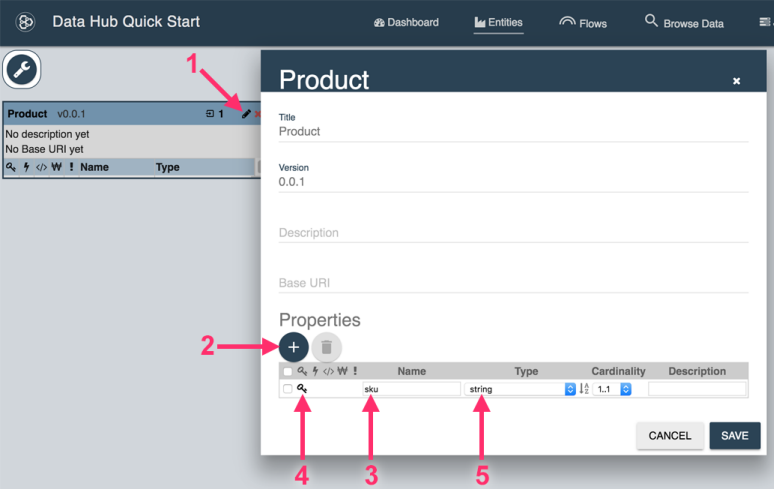
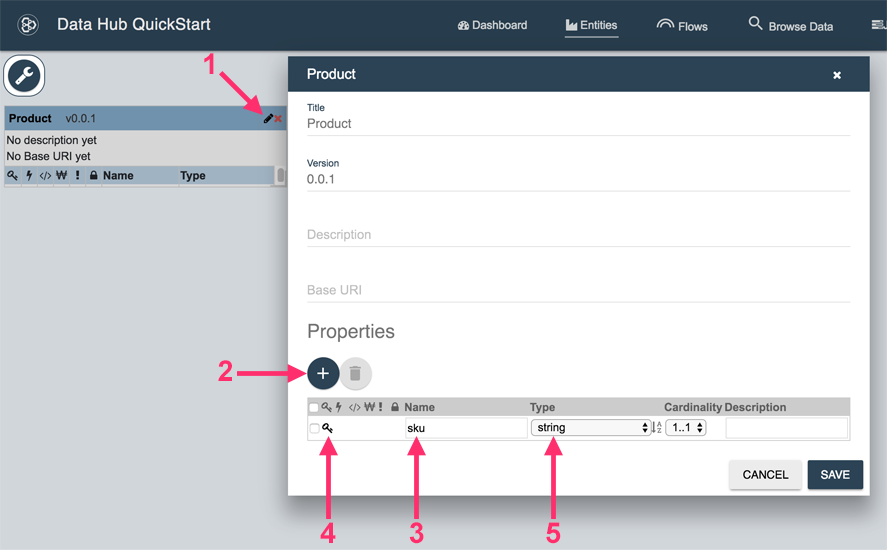
PR 1060 updates to QuickStart tutorial docs (#2)
* PR 1060 updates to QuickStart tutorial docs

* Make data-hub path consistent on tutorial install page

* Update QuickStart tutorial screenshots

* More updates to QuickStart tutorial screenshots

* Update Java prereq instructions

Change “JRE” to “JDK”.

* More updates to QuickStart tutorial screenshots

Insert screenshots where more detail is needed.
Add thin gray borders via CSS class to screens with edge whitespace.

* Update info about Jobs database in tutorial

* Update screenshots of QuickStart tutorial

Include PII elements in edit view.

diff --git a/_assets/css/bundle.scss b/_assets/css/bundle.scss
@@ -524,3 +524,7 @@ h2 {
 .screenshot {
   margin-top: 10px;
 }
+
+.screenshot-border {
+  border: solid 1px #CCC;
+}

diff --git a/_pages/tutorial/3x/load-products-as-is.md b/_pages/tutorial/3x/load-products-as-is.md
@@ -21,16 +21,21 @@ Use the following steps to configure the "Load Products" input flow, and then lo
 
 1. Click **Load Products** under **Input Flows**. The Run Input Flow wizard appears.
 1. Under **Input Files**, use the file browser to select the **input/products** directory.
+
+    ![Input Files]({{site.baseurl}}/images/3x/load-products-as-is/input-files.png){:.screenshot-border}
+
 1. Under **General Options**, change **Input File Type** to **Delimited Text**.
+
+    ![General Options]({{site.baseurl}}/images/3x/load-products-as-is/general-options.png)
+    
 1. Under **Delimited Text Options**, slide the **Generate URI?** slider to the right so MarkLogic will generate a unique URI for each document you load. 
+    
+    ![Delimited Text Options]({{site.baseurl}}/images/3x/load-products-as-is/delimited-text-options.png)
+
 1. Scroll to the bottom of the wizard and click **SAVE OPTIONS**.
 1. Click **RUN IMPORT**. MarkLogic begins loading data. QuickStart displays a progress bar at the bottom of your browser.
 
 When the load finishes, QuickStart displays a completion notification at the bottom of your browser.
-
-The following graphic summarizes the procedure for configuring and running the Load Products input flow:
-
-![Configure Load Products]({{site.baseurl}}/images/3x/load-products-as-is/configure-load-products.png)
 
 ## Review Your Finished Job
 
@@ -40,13 +45,13 @@ Click **Jobs** in the top navigation bar to open the job viewer:
 
 ![Click Jobs]({{site.baseurl}}/images/3x/load-products-as-is/select-jobs.png)
 
-You should see a view similar to the following, reflecting the load products job we just completed:
+You should see a view similar to the following, reflecting the Load Products job we just completed:
 
 ![Jobs View]({{site.baseurl}}/images/3x/load-products-as-is/jobs-view.png)
 
-Click **&gt;_**{:.blue-button} to inspect the output from your load products job. This output was generated by the mlcp command line tool. If the job completed successfully, you should see **OUTPUT_RECORDS_COMMITTED: 450** in the output. For example:
+Click **&gt;_** to inspect the output from your Load Products job. This output was generated by the mlcp command line tool. If the job completed successfully, you should see **OUTPUT_RECORDS_COMMITTED: 450** in the output. For example:
 
-![MLCP Output]({{site.baseurl}}/images/3x/load-products-as-is/mlcp-output.png)
+![MLCP Output]({{site.baseurl}}/images/3x/load-products-as-is/mlcp-output.png){:.screenshot-border}
 
 Click the **x** icon to close the dialog.
 
@@ -54,15 +59,15 @@ Click the **x** icon to close the dialog.
 
 Tracing is a debugging feature that logs inputs and outputs to each of the plugins that run during a flow. This feature is useful for helping you see where along the chain something may have gone wrong.
 
-To view the trace output from your load products job, click the lightning bolt icon (<i class="fa fa-bolt"></i>) on the far right of the job row. Alternatively, you can click Traces in the top navigation bar to see all traces.
+To view the trace output from your Load Products job, click the **lightning bolt** icon (<i class="fa fa-bolt"></i>) on the far right of the job row. Alternatively, you can click **Traces** in the top navigation bar to see all traces.
 
-![Click Lightning Bolt]({{site.baseurl}}/images/3x/load-products-as-is/click-lightning-bolt.png)
+![Click Lightning Bolt]({{site.baseurl}}/images/3x/load-products-as-is/click-lightning-bolt.png){:.screenshot-border}
 
 Click one of the rows in the Traces table to see the trace detail view. At the top of the detailed view, you see information about this trace, including the **identifier** whose processing generated it.
 
 You also see a flow diagram that enables you to examine the inputs and outputs for each stage of the flow. Each box in the diagram represents a plugin that handles a stage of the flow. When you click on a box, the input to and output from that plugin is displayed, along with that plugin's execution time.
 
-![Trace Detail View]({{site.baseurl}}/images/3x/load-products-as-is/trace-details.png)
+![Trace Detail View]({{site.baseurl}}/images/3x/load-products-as-is/trace-details.png){:.screenshot-border}
 
 ## Up Next
 

diff --git a/_pages/tutorial/3x/harmonizing-order-data.md b/_pages/tutorial/3x/harmonizing-order-data.md
@@ -20,8 +20,8 @@ Since we used the default option of **Create Structure from Entity Definition**,
 
 ![Create Product Harmonize Flow]({{site.baseurl}}/images/3x/harmonizing-order-data/create-order-harmonize-flow.png)
 
-1. <i class="fa fa-hand-pointer-o"></i> Click the **Harmonize Orders** flow. 
-1. <i class="fa fa-hand-pointer-o"></i> Click the **Collector** tab.
+1. Click the **Harmonize Orders** flow. 
+1. Click the **Collector** tab.
 
 ![Harmonize Flow Overview]({{site.baseurl}}/images/3x/harmonizing-order-data/go-to-order-collector.png)
 
@@ -48,10 +48,10 @@ Here is the final collector.sjs code:
 <div class="embed-git lang-js" href="//raw.githubusercontent.com/marklogic-community/marklogic-data-hub/develop/examples/online-store/plugins/entities/Order/harmonize/Harmonize Orders/collector/collector.sjs"></div>
 
 1. Make the code change.
-1. <i class="fa fa-hand-pointer-o"></i> Click **Save**{:.blue-button}.
-1. <i class="fa fa-hand-pointer-o"></i> Click the **Content** tab.
+1. Click **SAVE**.
+1. Click the **Content** tab.
 
-![Click Content Tab]({{site.baseurl}}/images/3x/harmonizing-order-data/save-order-collector.png)
+![Click Content Tab]({{site.baseurl}}/images/3x/harmonizing-order-data/save-order-collector.png){:.screenshot-border}
 
 <hr>
 
@@ -73,15 +73,15 @@ The final content plugin looks like:
 <div class="embed-git lang-js" href="//raw.githubusercontent.com/marklogic-community/marklogic-data-hub/develop/examples/online-store/plugins/entities/Order/harmonize/Harmonize Orders/content/content.sjs"></div>
 
 1. Change the code.
-1. <i class="fa fa-hand-pointer-o"></i> Click **SAVE**{:.blue-button}.
+1. Click **SAVE**.
 
 ![Edit and Save Content]({{site.baseurl}}/images/3x/harmonizing-order-data/save-order-content.png)
 
-<i class="fa fa-hand-pointer-o"></i> Now click the **Flow Info** tab.
+Now click the **Flow Info** tab.
 
 ![Click Flow Info]({{site.baseurl}}/images/3x/harmonizing-order-data/click-flow-info2.png)
 
-Let's run the flow. <i class="fa fa-hand-pointer-o"></i> Click **RUN HARMONIZE**{:.blue-button} to start the flow.
+Let's run the flow. Click **RUN HARMONIZE** to start the flow.
 
 ![Run Order Harmonize]({{site.baseurl}}/images/3x/harmonizing-order-data/run-order-harmonize.png)
 
@@ -89,24 +89,24 @@ Let's run the flow. <i class="fa fa-hand-pointer-o"></i> Click **RUN HARMONIZE**
 
 Similar to what we did after running the other flows, you might want to verify that the job finished.
 
-1. <i class="fa fa-hand-pointer-o"></i> Click **Jobs**.
-1. Make sure the job finished.
+1. Click **Jobs**.
+1. Make sure the job has a FINISHED status.
 
 ![Harmonized Products Jobs]({{site.baseurl}}/images/3x/harmonizing-order-data/harmonized-orders-jobs.png)
 
 You might also want to explore your harmonized data.
 
-1. <i class="fa fa-hand-pointer-o"></i> Click **Browse Data**.
+1. Click **Browse Data**.
 1. Change the database to **Final**.
-1. <i class="fa fa-hand-pointer-o"></i> Click the **Order** facet to filter the results.
+1. Click the **Order** facet to filter the results.
 
 You should see harmonized documents in the search results.
 
 ![Harmonized Products]({{site.baseurl}}/images/3x/harmonizing-order-data/harmonized-orders.png)
 
-<i class="fa fa-hand-pointer-o"></i> Click a result to see the raw data.
+Click a result to see the raw data.
 
-![Harmonized Product Detail]({{site.baseurl}}/images/3x/harmonizing-order-data/harmonized-order-details.png)
+![Harmonized Product Detail]({{site.baseurl}}/images/3x/harmonizing-order-data/harmonized-order-details.png){:.screenshot-border}
 
 ## Up Next
 

diff --git a/_pages/tutorial/3x/install.md b/_pages/tutorial/3x/install.md
@@ -68,33 +68,32 @@ With the QuickStart application running, open it in your browser: [http://localh
 
 After opening the QuickStart application, you must step through a sequence of screens to properly configure and install the hub.
 
-1. Browse to the directory where your hub lives. If you saved and ran the Quickstart war file in the hub directory, then you should be in the correct directory. Click NEXT.
+1. Browse to the directory where your hub lives. If you saved and ran the Quickstart war file in the hub directory, then you should be in the correct directory. Click **NEXT**.
 <br/>![Hub Directory]({{site.baseurl}}/images/3x/install/hub-wizard-1.png){:.screenshot}
 
-2. Click INITIALIZE to initialized your project directory.
+2. Click **INITIALIZE** to initialized your project directory.
 <br/>![Hub Directory]({{site.baseurl}}/images/3x/install/hub-wizard-2.png){:.screenshot}
 
-3. You have now initialized your Data Hub Framework project. Your project folder now contains many new files and directories. If you are curious, you can read about the [files in a Data Hub Framework project](https://github.com/marklogic-community/marklogic-data-hub/wiki/Project-Directory-Structure). Click NEXT.
+3. You have now initialized your Data Hub Framework project. Your project folder now contains many new files and directories. If you are curious, you can read about the [files in a Data Hub Framework project](https://github.com/marklogic-community/marklogic-data-hub/wiki/Project-Directory-Structure). Click **NEXT**.
 <br/>![Hub Directory]({{site.baseurl}}/images/3x/install/hub-wizard-3.png){:.screenshot}
 
-4. Choose the local environment, then click NEXT.
+4. Choose the local environment, then click **NEXT**.
 <br/>![Hub Directory]({{site.baseurl}}/images/3x/install/hub-wizard-4.png){:.screenshot}
 
-5. Enter your MarkLogic credentials, then click LOGIN.
+5. Enter your MarkLogic credentials, then click **LOGIN**.
 <br/>![Hub Directory]({{site.baseurl}}/images/3x/install/hub-wizard-5.png){:.screenshot}
 
-6. Click INSTALL to install the data hub into MarkLogic. You will see a screen with progress information while the data hub is being installed.
+6. Click **INSTALL** to install the data hub into MarkLogic. You will see a screen with progress information while the data hub is being installed.
 <br/>![Hub Directory]({{site.baseurl}}/images/3x/install/hub-wizard-6.png){:.screenshot}
 
 Congratulations! The Data Hub Framework is installed and ready to use.
-You are taken to the Dashboard page where you can see the document counts of all four hub databases. Additionally, you can clear out the databases one at a time or all in one fell swoop.
+You are taken to the Dashboard page where you can see the document counts of all three hub databases. Additionally, you can clear out the databases one at a time or all in one fell swoop.
 
-The following are the four databases and what they store:
+The following are the three databases and what they store:
 
 - **Staging**: incoming data
 - **Final**: harmonized data
-- **Job**: data about the jobs you run
-- **Trace**: debugging data about each document that has been harmonized
+- **Jobs**: data about the jobs run and tracing data about each harmonized document
 
 ![Hub Directory]({{site.baseurl}}/images/3x/install/hub-wizard-7.png)
 

diff --git a/_pages/tutorial/3x/harmonizing-product-data.md b/_pages/tutorial/3x/harmonizing-product-data.md
@@ -11,6 +11,8 @@ In this exercise, we will create a harmonize flow for Product, and then run it t
 
 To begin, click **Flows** in the top navigation bar.
 
+![Click Flows]({{site.baseurl}}/images/3x/harmonizing-product-data/select-flows.png)
+
 ## Create the Harmonize Flow
 
 Use the following procedure to create a Product harmonize flow:
@@ -65,7 +67,7 @@ The following options are passed into the collector plugin by default:
 - **flow**: the name of the flow this plugin belongs to
 - **flowType**: the type of flow being run (input or harmonize)
 
-The genterated code uses [cts.uris](https://docs.marklogic.com/cts.uris) to get values from the URI lexicon. We pass in [cts.collectionQuery](https://docs.marklogic.com/cts.collectionQuery) as the third parameter to constrain our results to only the URIs for documents in the **Product** collection. We are using `options.entity` as the parameter. The Data Hub Framework passes in options from Java to the plugins.
+The genterated code uses [cts.uris](https://docs.marklogic.com/cts.uris) to get values from the URI lexicon. We pass in [cts.collectionQuery](https://docs.marklogic.com/cts.collectionQuery) as the third parameter to constrain our results to only the URIs for documents in the Product collection. We are using `options.entity` as the parameter. The Data Hub Framework passes in options from Java to the plugins.
 
 <div class="embed-git lang-js" href="//raw.githubusercontent.com/marklogic-community/marklogic-data-hub/develop/examples/online-store/plugins/entities/Product/harmonize/Harmonize Products/collector/collector.sjs"></div>
 
@@ -109,7 +111,7 @@ We do not need to modify the code for any of the other plugins, so we can now ru
 Recall that we verified the job status after running the input flow. We will now do the same thing for the harmonize flow.
 
 1. Click **Jobs** in the top navigation bar to view your jobs.
-1. Verify the harmonization job appears in the list and has finished.
+1. Verify the harmonization job appears in the list and has a FINISHED status.
 
 ![Harmonized Products Jobs]({{site.baseurl}}/images/3x/harmonizing-product-data/harmonized-products-jobs.png)
 
@@ -121,7 +123,7 @@ To explore the harmonized data:
 1. Select **Final** in the database dropdown. The search results show the harmonized documents.
 1. Click a result to see the harmonized data. For example:
 
-![Harmonized Product Detail]({{site.baseurl}}/images/3x/harmonizing-product-data/harmonized-product-details.png)
+![Harmonized Product Detail]({{site.baseurl}}/images/3x/harmonizing-product-data/harmonized-product-details.png){:.screenshot-border}
 
 ## Up Next
 

diff --git a/_pages/tutorial/3x/load-orders-as-is.md b/_pages/tutorial/3x/load-orders-as-is.md
@@ -18,11 +18,20 @@ We will configure the flow to do the following:
 Follow these steps to configure the input flow:
 
 1. Click **Load Orders** under the Orders **Input Flows**. The Run Input Flow wizard appears.
-2. Under **Input Files**, use the file browser to select the **input/orders** directory.
-3. Under **General Options**, change **Input File Type** to **Delimited Text**.
-4. Under **Delimited Text Options**, slide the **Generate URI?** slider to the right, enabling automatic unique URI generation.
-5. Scroll to the bottom of the wizard and click **Save Options**.
-6. Click **Run Import**. MarkLogic begins loading data. Quickstart displays a progress bar at the bottom of your browser.
+1. Under **Input Files**, use the file browser to select the **input/orders** directory.
+
+    ![Input Files]({{site.baseurl}}/images/3x/load-orders-as-is/input-files.png){:.screenshot-border}
+    
+1. Under **General Options**, change **Input File Type** to **Delimited Text**.
+
+    ![General Options]({{site.baseurl}}/images/3x/load-orders-as-is/general-options.png)
+    
+1. Under **Delimited Text Options**, slide the **Generate URI?** slider to the right, enabling automatic unique URI generation.
+    
+    ![Delimited Text Options]({{site.baseurl}}/images/3x/load-orders-as-is/delimited-text-options.png)
+
+1. Scroll to the bottom of the wizard and click **SAVE OPTIONS**.
+1. Click **RUN IMPORT**. MarkLogic begins loading data. Quickstart displays a progress bar at the bottom of your browser.
 
 When the load finishes, QuickStart displays a completion notice at the bottom of your browser.
 
@@ -30,8 +39,11 @@ When the load finishes, QuickStart displays a completion notice at the bottom of
 
 As when we loaded product data, we will inspect the status of our Load Orders job.
 
-1. Click **Jobs** in the top navigation bar.
-2. Examine the Load Orders job results. This job should be the most recent run.
+Click **Jobs** in the top navigation bar to open the job viewer:
+
+![Click Jobs]({{site.baseurl}}/images/3x/load-orders-as-is/select-jobs.png)
+
+Examine the Load Orders job results. This job should be the most recent run.
 
 ## Up Next
 

diff --git a/_pages/tutorial/3x/create-order-entity.md b/_pages/tutorial/3x/create-order-entity.md
@@ -7,7 +7,11 @@ permalink: /tutorial/create-order-entity/
 
 Next, we will create an Order entity, following the same procedure we used to create the Product entity. 
 
-Click **Entities** on the top navigation bar, and then follow these steps:
+Click **Entities** on the top navigation bar.
+
+![Click Entities]({{site.baseurl}}/images/3x/create-order-entity/entities-select.png)
+
+Follow these steps:
 
 1. Click <span class="circle-button"><i class="fa fa-wrench"></i></span> to open the entity tools control.
 1. Click **New Entity**. The entity creation dialog appears.
@@ -16,7 +20,7 @@ Click **Entities** on the top navigation bar, and then follow these steps:
 
 You have just created your second entity, the Order entity.
 
-Note: If you do not see your Order entity, it might be hidden behind the Product entity. Click and Drag the Product entity to uncover the Order entity.
+Note: If you do not see your Order entity, it might be hidden behind the Product entity. Click and drag the Product entity to uncover the Order entity.
 
 The following picture summarizes the steps for creating the Order entity.
 ![New Entity]({{site.baseurl}}/images/3x/create-order-entity/create-order-entity.png)

diff --git a/_pages/tutorial/3x/modeling-order-entity.md b/_pages/tutorial/3x/modeling-order-entity.md
@@ -51,12 +51,15 @@ $76.98
 
 Now, we can model our Order entity. 
 
-To begin, click **Entities** in the top navigation bar, and then open the entity editor by clicking on the pencil icon in the upper right corner of the **Order** entity.
+1. Click **Entities** in the top navigation bar.
+1. Open the entity editor by clicking on the **pencil** icon (<i class="fa fa-pencil"></i>) in the upper right corner of the Order entity.
+
+    ![Open Editor]({{site.baseurl}}/images/3x/modeling-order-entity/open-editor.png)
 
 ## Add the **id** Property
 1. Click **+**{:.circle-button} below **Properties** to add a new property.
-1. Click the area just below the **key** icon to make **id** the primary key.
-1. Click the area just below the **lightning bolt** icon to specify the need for an element range index for this property.
+1. Click the area just below the **key** icon (<i class="fa fa-key"></i>) to make **id** the primary key.
+1. Click the area just below the **lightning bolt** icon (<i class="fa fa-bolt"></i>) to specify the need for an element range index for this property.
 1. Enter **id** as the Name.
 1. Select **string** as the Type.
 

diff --git a/_pages/tutorial/3x/create-product-entity.md b/_pages/tutorial/3x/create-product-entity.md
@@ -16,15 +16,13 @@ Use the following procedure to create a Product entity. We will add entity prope
 1. Click <span class="circle-button"><i class="fa fa-wrench"></i></span> to open the entity tools control.
 1. Click **New Entity**. The entity creation dialog appears.
 1. Type **Product** in the Title field.
-1. Click **Save**. The new Product entity is displayed. If you are prompted to update the index, click No.
+1. Click **Save**. The new Product entity is displayed. If you are prompted to update the index, click **No**.
+
+    ![New Entity]({{site.baseurl}}/images/3x/create-product-entity/create-product-entity.png)
 
 When you are done, you should see a representation of the Product entity similar to the following:
 
 ![Product Entity]({{site.baseurl}}/images/3x/create-product-entity/first-entity.png)
-
-The following picture summarizes the steps for creating the Product entity:
-
-![New Entity]({{site.baseurl}}/images/3x/create-product-entity/create-product-entity.png)
 
 ## Next Up
 [Create the Product Input Flow](../create-product-input-flow/)

diff --git a/_pages/tutorial/3x/modeling-product-entity.md b/_pages/tutorial/3x/modeling-product-entity.md
@@ -16,10 +16,10 @@ Before we can harmonize the data, we must add the "sku" and "price" properties t
 Click **Entities** in the top navigation bar to open the entity modeling view,
 and then follow these steps to add the "sku" property:
 
-1. Click the pencil icon in the upper right corner of the **Product** entity to edit the entity definition.
+1. Click the **pencil** icon (<i class="fa fa-pencil"></i>) in the upper right corner of the **Product** entity to edit the entity definition.
 1. Click **+**{:.circle-button} below **Properties** to add a new property.
 1. Enter **sku** as the Name.
-1. Click in the area just below the **key** icon to make "sku" the primary key.
+1. Click in the area just below the **key** icon (<i class="fa fa-key"></i>) to make "sku" the primary key.
 1. Select **string** as the Type.
 
 The following picture summarizes the step for adding the "sku" property to the Product entity definition:

diff --git a/_pages/tutorial/3x/browse-understand-product-data.md b/_pages/tutorial/3x/browse-understand-product-data.md
@@ -15,13 +15,13 @@ The following picture highlights key features of the Browse Data view.
 
 ![Browse View]({{site.baseurl}}/images/3x/browse-understand-product-data/browse-view.png)
 
-<i class="fa fa-hand-pointer-o"></i> Click the first search result to see the raw document.
+Click the first search result to see the raw document.
 
 ![Click First Result]({{site.baseurl}}/images/3x/browse-understand-product-data/click-first-result.png)
 
 You are shown the raw data.
 
-![Detail View]({{site.baseurl}}/images/3x/browse-understand-product-data/search-result-detail.png)
+![Detail View]({{site.baseurl}}/images/3x/browse-understand-product-data/search-result-detail.png){:.screenshot-border}
 
 ## Up Next
 

diff --git a/_pages/tutorial/3x/3x.md b/_pages/tutorial/3x/3x.md
@@ -37,7 +37,7 @@ The finished version of this tutorial is available for you to download and play 
 
 Before you can begin this tutorial and work with the Data Hub Framework, you need to have some software installed.
 
-- **[Oracle's Java 8 JRE](http://www.oracle.com/technetwork/java/javase/downloads/index.html)**
+- **[Oracle's Java 8 JDK](http://www.oracle.com/technetwork/java/javase/downloads/index.html)**
   
   Java versions later than 8 are currently not supported. We have not tested with OpenJDK. Not sure which Java version you have? Run the following from the command line:
   <pre class="cmdline">
